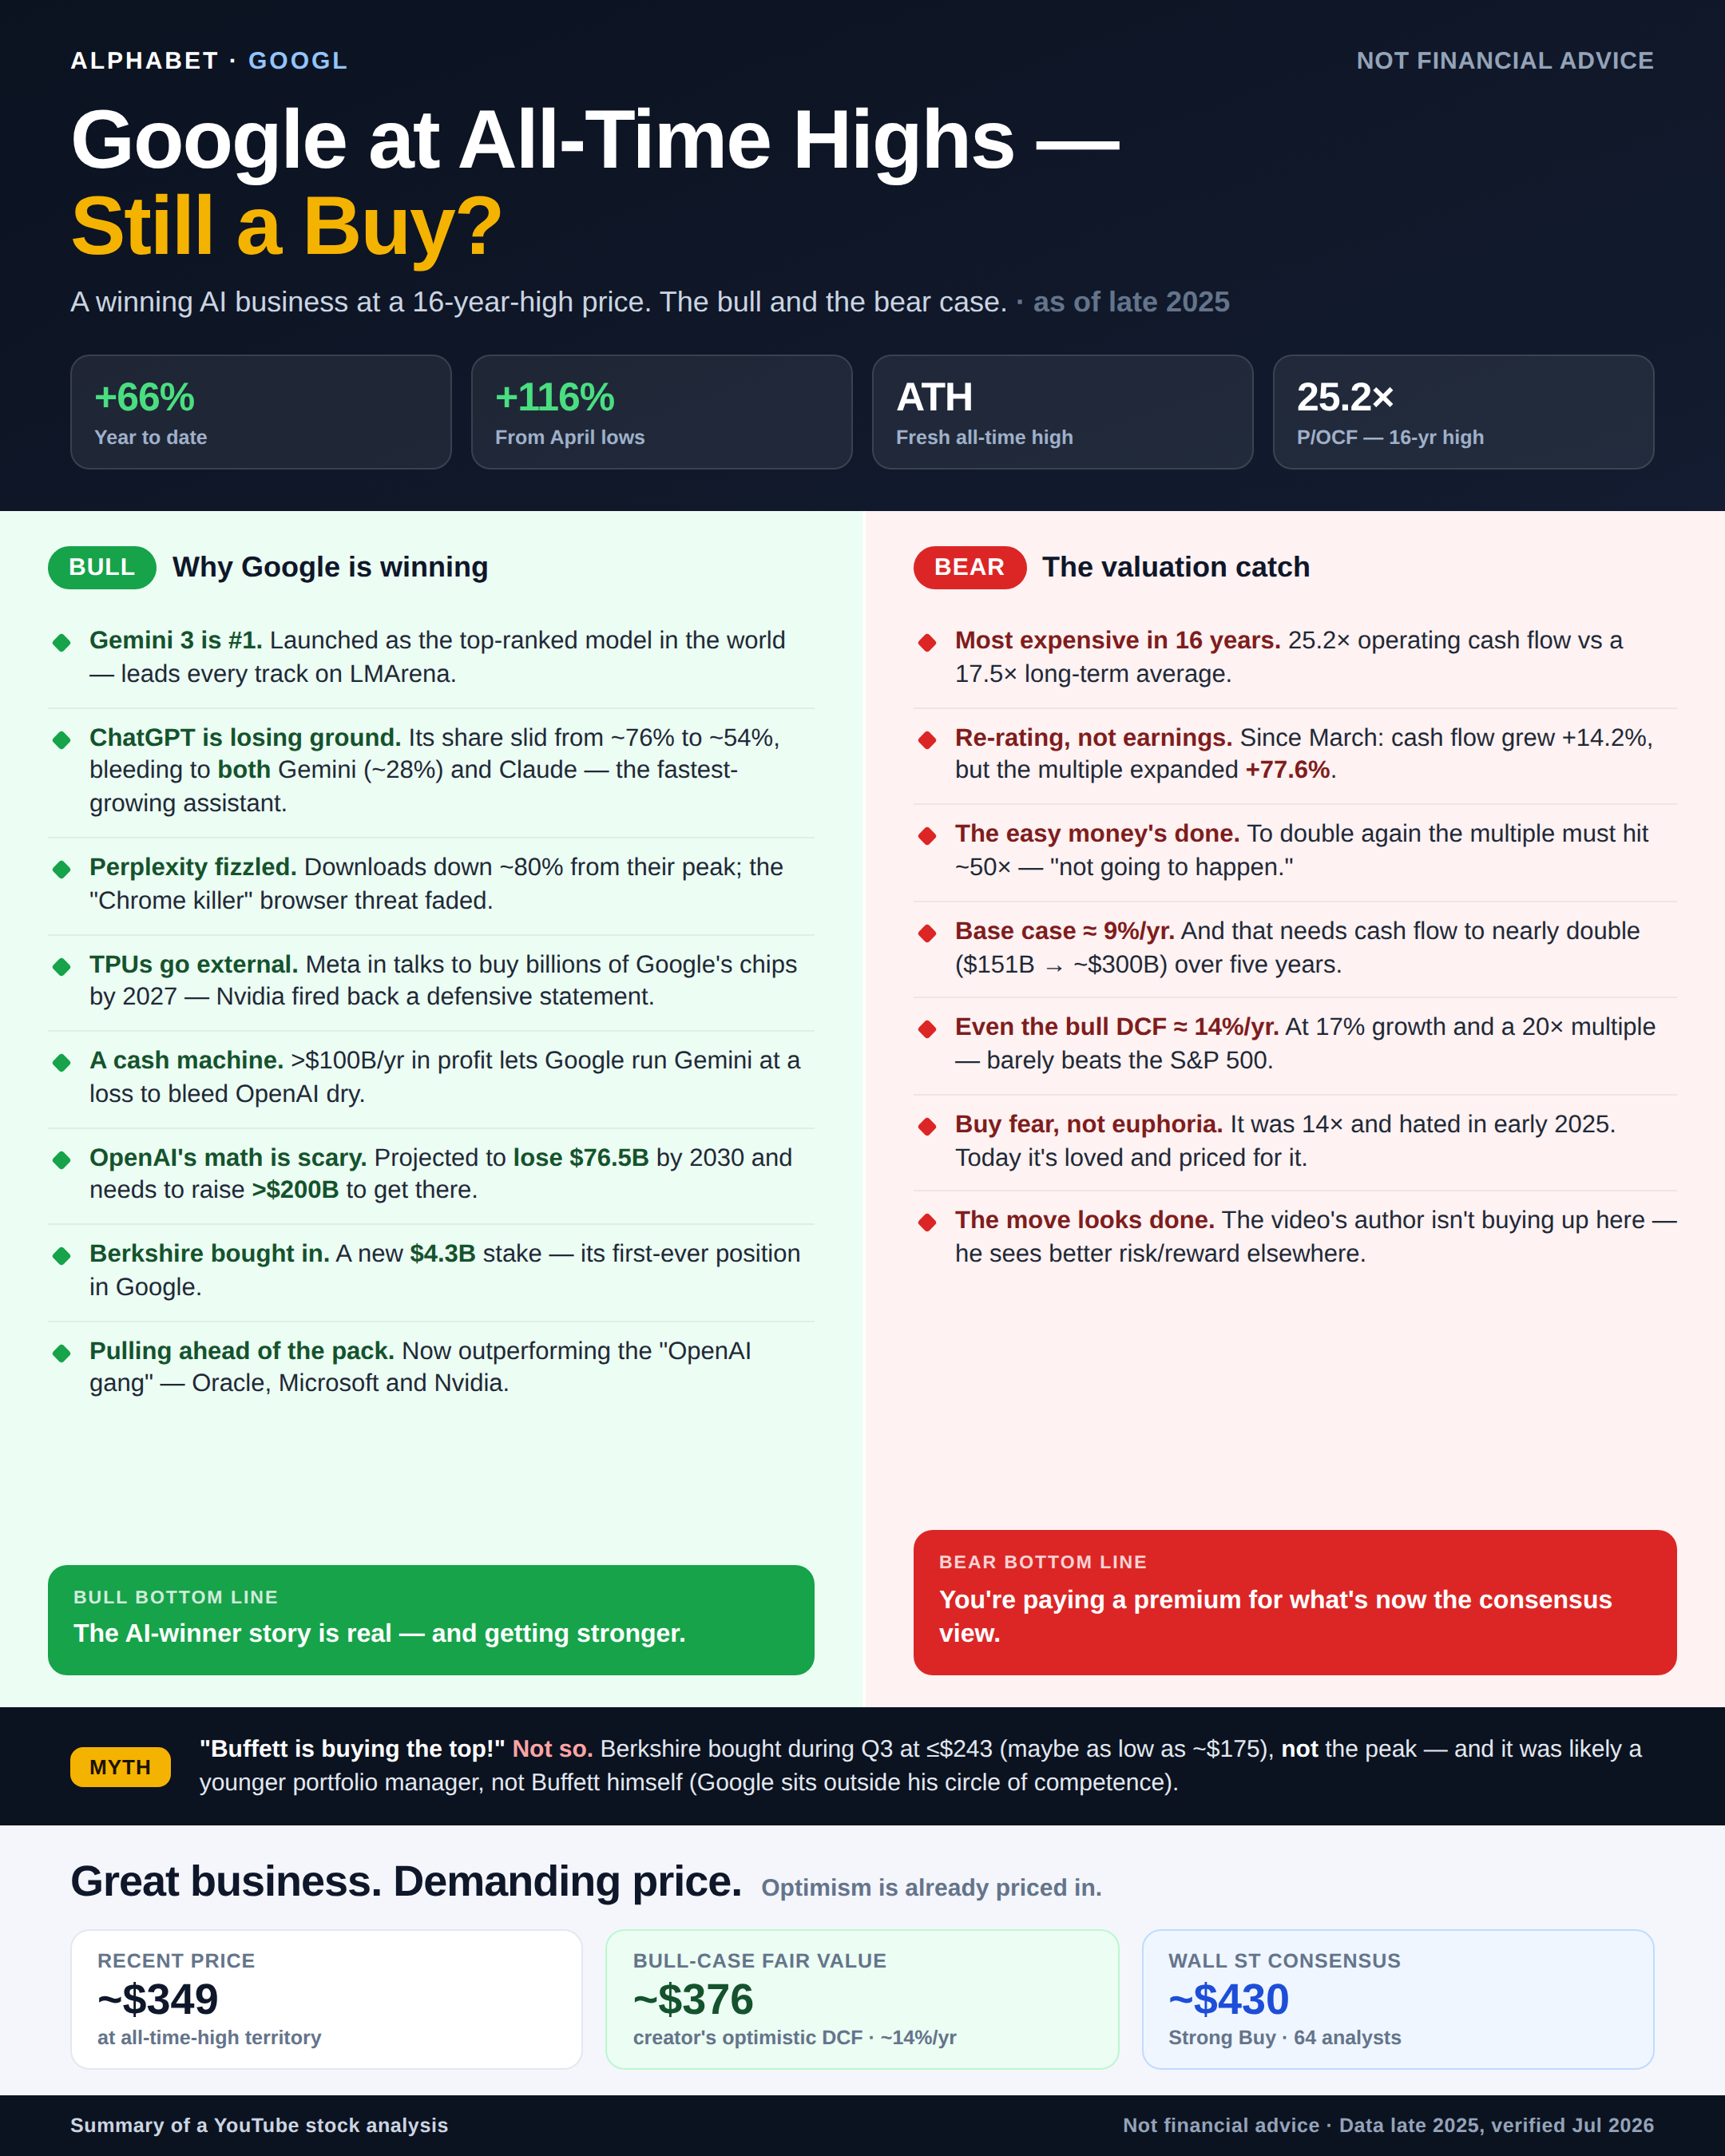
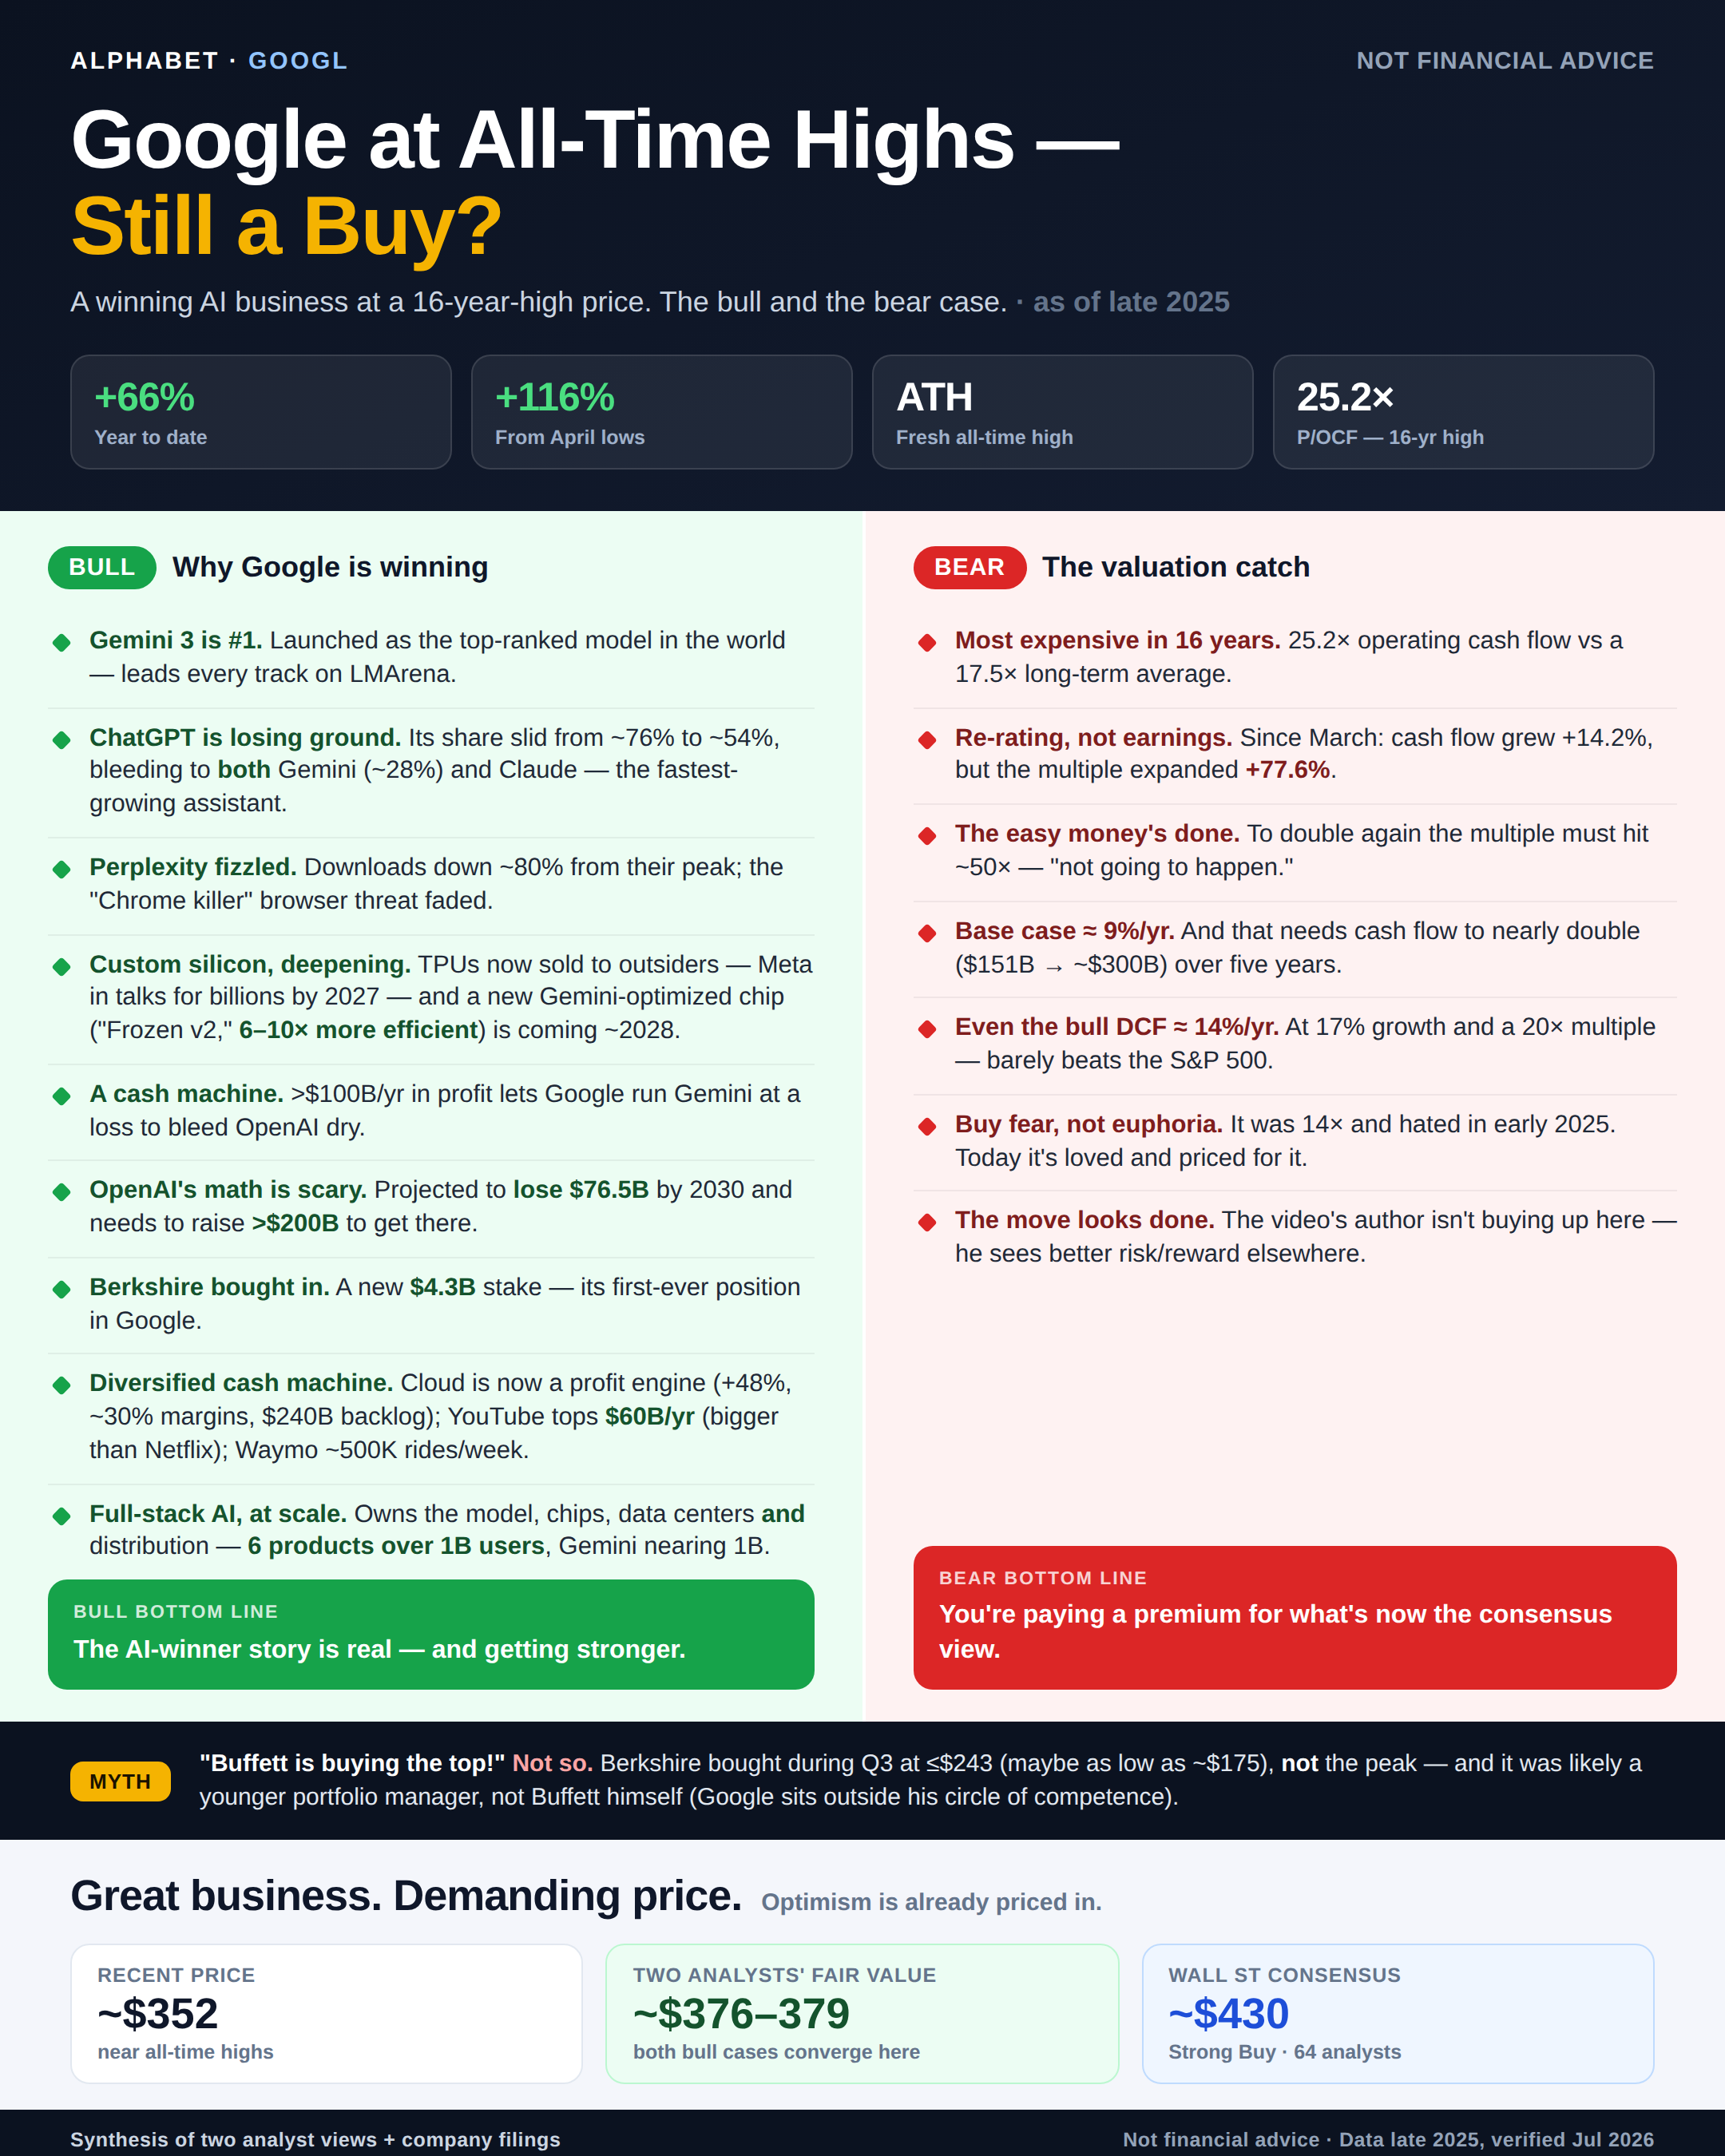
Enrich Google infographic: diversification, full-stack AI, 2nd analyst
- Add Bull bullet on diversified BUs (Cloud +48%/~30% margin/$240B
  backlog, YouTube >$60B, Waymo ~500K rides/wk)
- Add 'full-stack AI at scale' bullet (model+chips+data centers+
  distribution; 6 products >1B users); replaces weak filler line
- Fold new Gemini-optimized 'Frozen v2' chip (6-10x) into silicon bullet
- Price row: recent ~$352; relabel to two-analyst fair value ~$376-379
  (2nd analyst Jul-2026 Buy/high-conviction corroborates video 1)
- Footer reframed as synthesis of two analyst views + filings
- All figures web-verified Jul 2026

Claude-Session: https://claude.ai/code/session_015v2R8x3Z1kBYDuS3t6MGoE

Changed region(s): [[0.0, 0.4356, 1.0, 0.9956]]

diff --git a/infographic-references/builds/google-bull-vs-bear.html b/infographic-references/builds/google-bull-vs-bear.html
@@ -150,11 +150,12 @@
         <li><b>Gemini 3 is #1.</b> Launched as the top-ranked model in the world — leads every track on LMArena.</li>
         <li><b>ChatGPT is losing ground.</b> Its share slid from ~76% to ~54%, bleeding to <b>both</b> Gemini (~28%) and Claude — the fastest-growing assistant.</li>
         <li><b>Perplexity fizzled.</b> Downloads down ~80% from their peak; the "Chrome killer" browser threat faded.</li>
-        <li><b>TPUs go external.</b> Meta in talks to buy billions of Google's chips by 2027 — Nvidia fired back a defensive statement.</li>
+        <li><b>Custom silicon, deepening.</b> TPUs now sold to outsiders — Meta in talks for billions by 2027 — and a new Gemini-optimized chip ("Frozen v2," <b>6–10× more efficient</b>) is coming ~2028.</li>
         <li><b>A cash machine.</b> &gt;$100B/yr in profit lets Google run Gemini at a loss to bleed OpenAI dry.</li>
         <li><b>OpenAI's math is scary.</b> Projected to <b>lose $76.5B</b> by 2030 and needs to raise <b>&gt;$200B</b> to get there.</li>
         <li><b>Berkshire bought in.</b> A new <b>$4.3B</b> stake — its first-ever position in Google.</li>
-        <li><b>Pulling ahead of the pack.</b> Now outperforming the "OpenAI gang" — Oracle, Microsoft and Nvidia.</li>
+        <li><b>Diversified cash machine.</b> Cloud is now a profit engine (+48%, ~30% margins, $240B backlog); YouTube tops <b>$60B/yr</b> (bigger than Netflix); Waymo ~500K rides/week.</li>
+        <li><b>Full-stack AI, at scale.</b> Owns the model, chips, data centers <b>and</b> distribution — <b>6 products over 1B users</b>, Gemini nearing 1B.</li>
       </ul>
       <div class="bottomline g"><span class="lab">Bull bottom line</span>The AI-winner story is real — and getting stronger.</div>
     </div>
@@ -183,15 +184,15 @@
   <div class="verdict">
     <div class="headline"><span class="big">Great business. Demanding price.</span><span class="small">Optimism is already priced in.</span></div>
     <div class="targets">
-      <div class="target"><div class="l">Recent price</div><div class="v">~$349</div><div class="n">at all-time-high territory</div></div>
-      <div class="target mid"><div class="l">Bull-case fair value</div><div class="v">~$376</div><div class="n">creator's optimistic DCF · ~14%/yr</div></div>
+      <div class="target"><div class="l">Recent price</div><div class="v">~$352</div><div class="n">near all-time highs</div></div>
+      <div class="target mid"><div class="l">Two analysts' fair value</div><div class="v">~$376–379</div><div class="n">both bull cases converge here</div></div>
       <div class="target hi"><div class="l">Wall St consensus</div><div class="v">~$430</div><div class="n">Strong Buy · 64 analysts</div></div>
     </div>
   </div>
 
   <!-- FOOTER -->
   <div class="footer">
-    <span class="src">Summary of a YouTube stock analysis</span>
+    <span class="src">Synthesis of two analyst views + company filings</span>
     <span>Not financial advice · Data late 2025, verified Jul 2026</span>
   </div>
 </div>